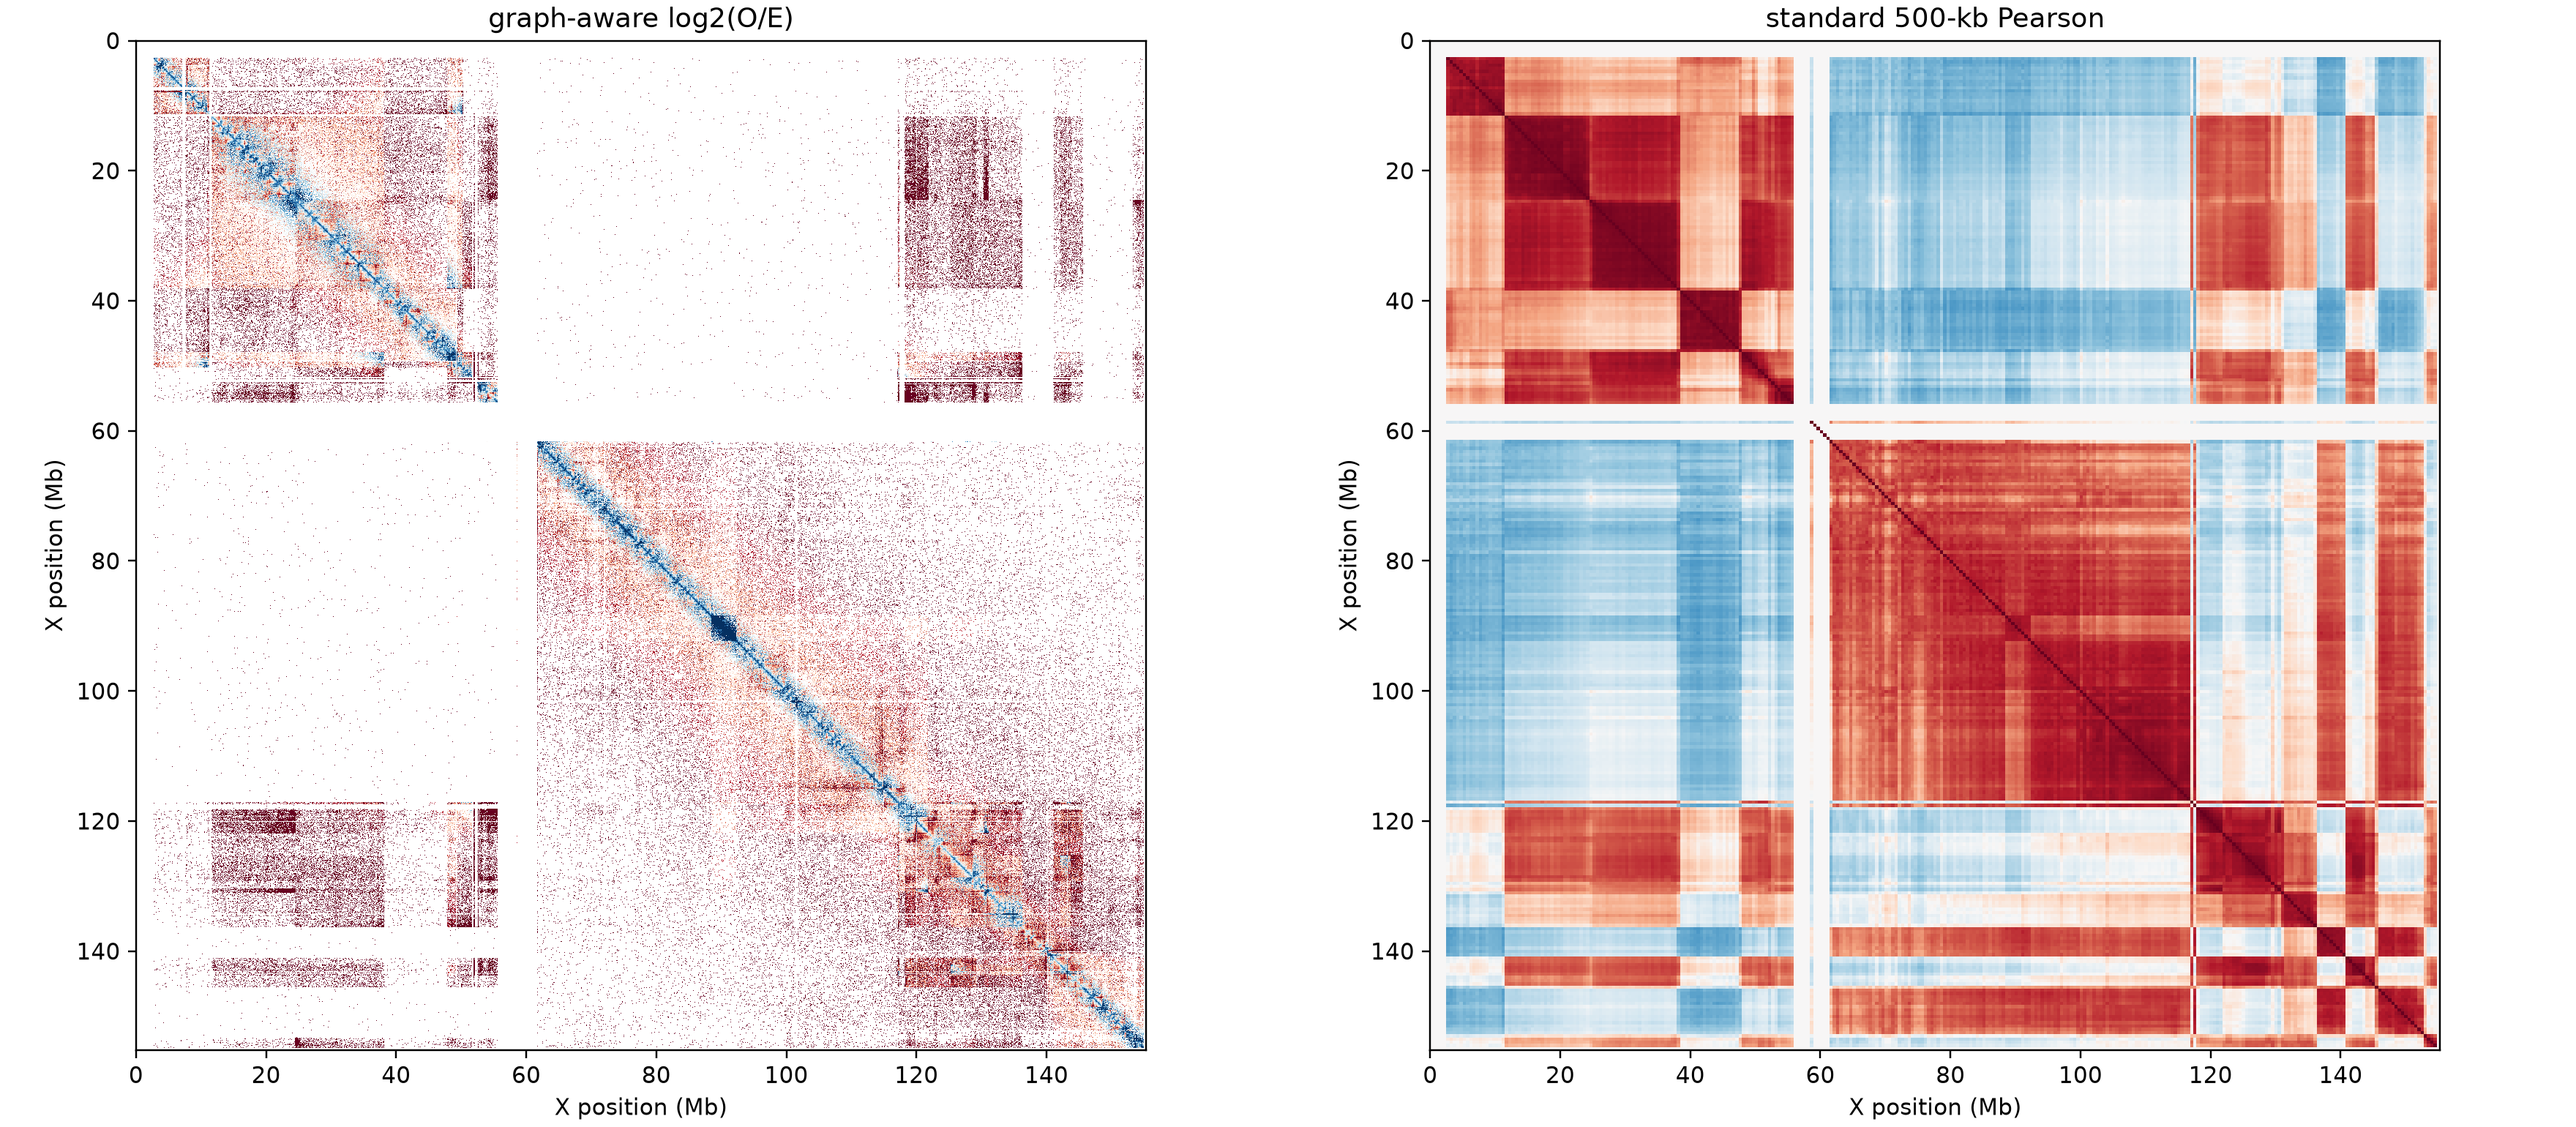
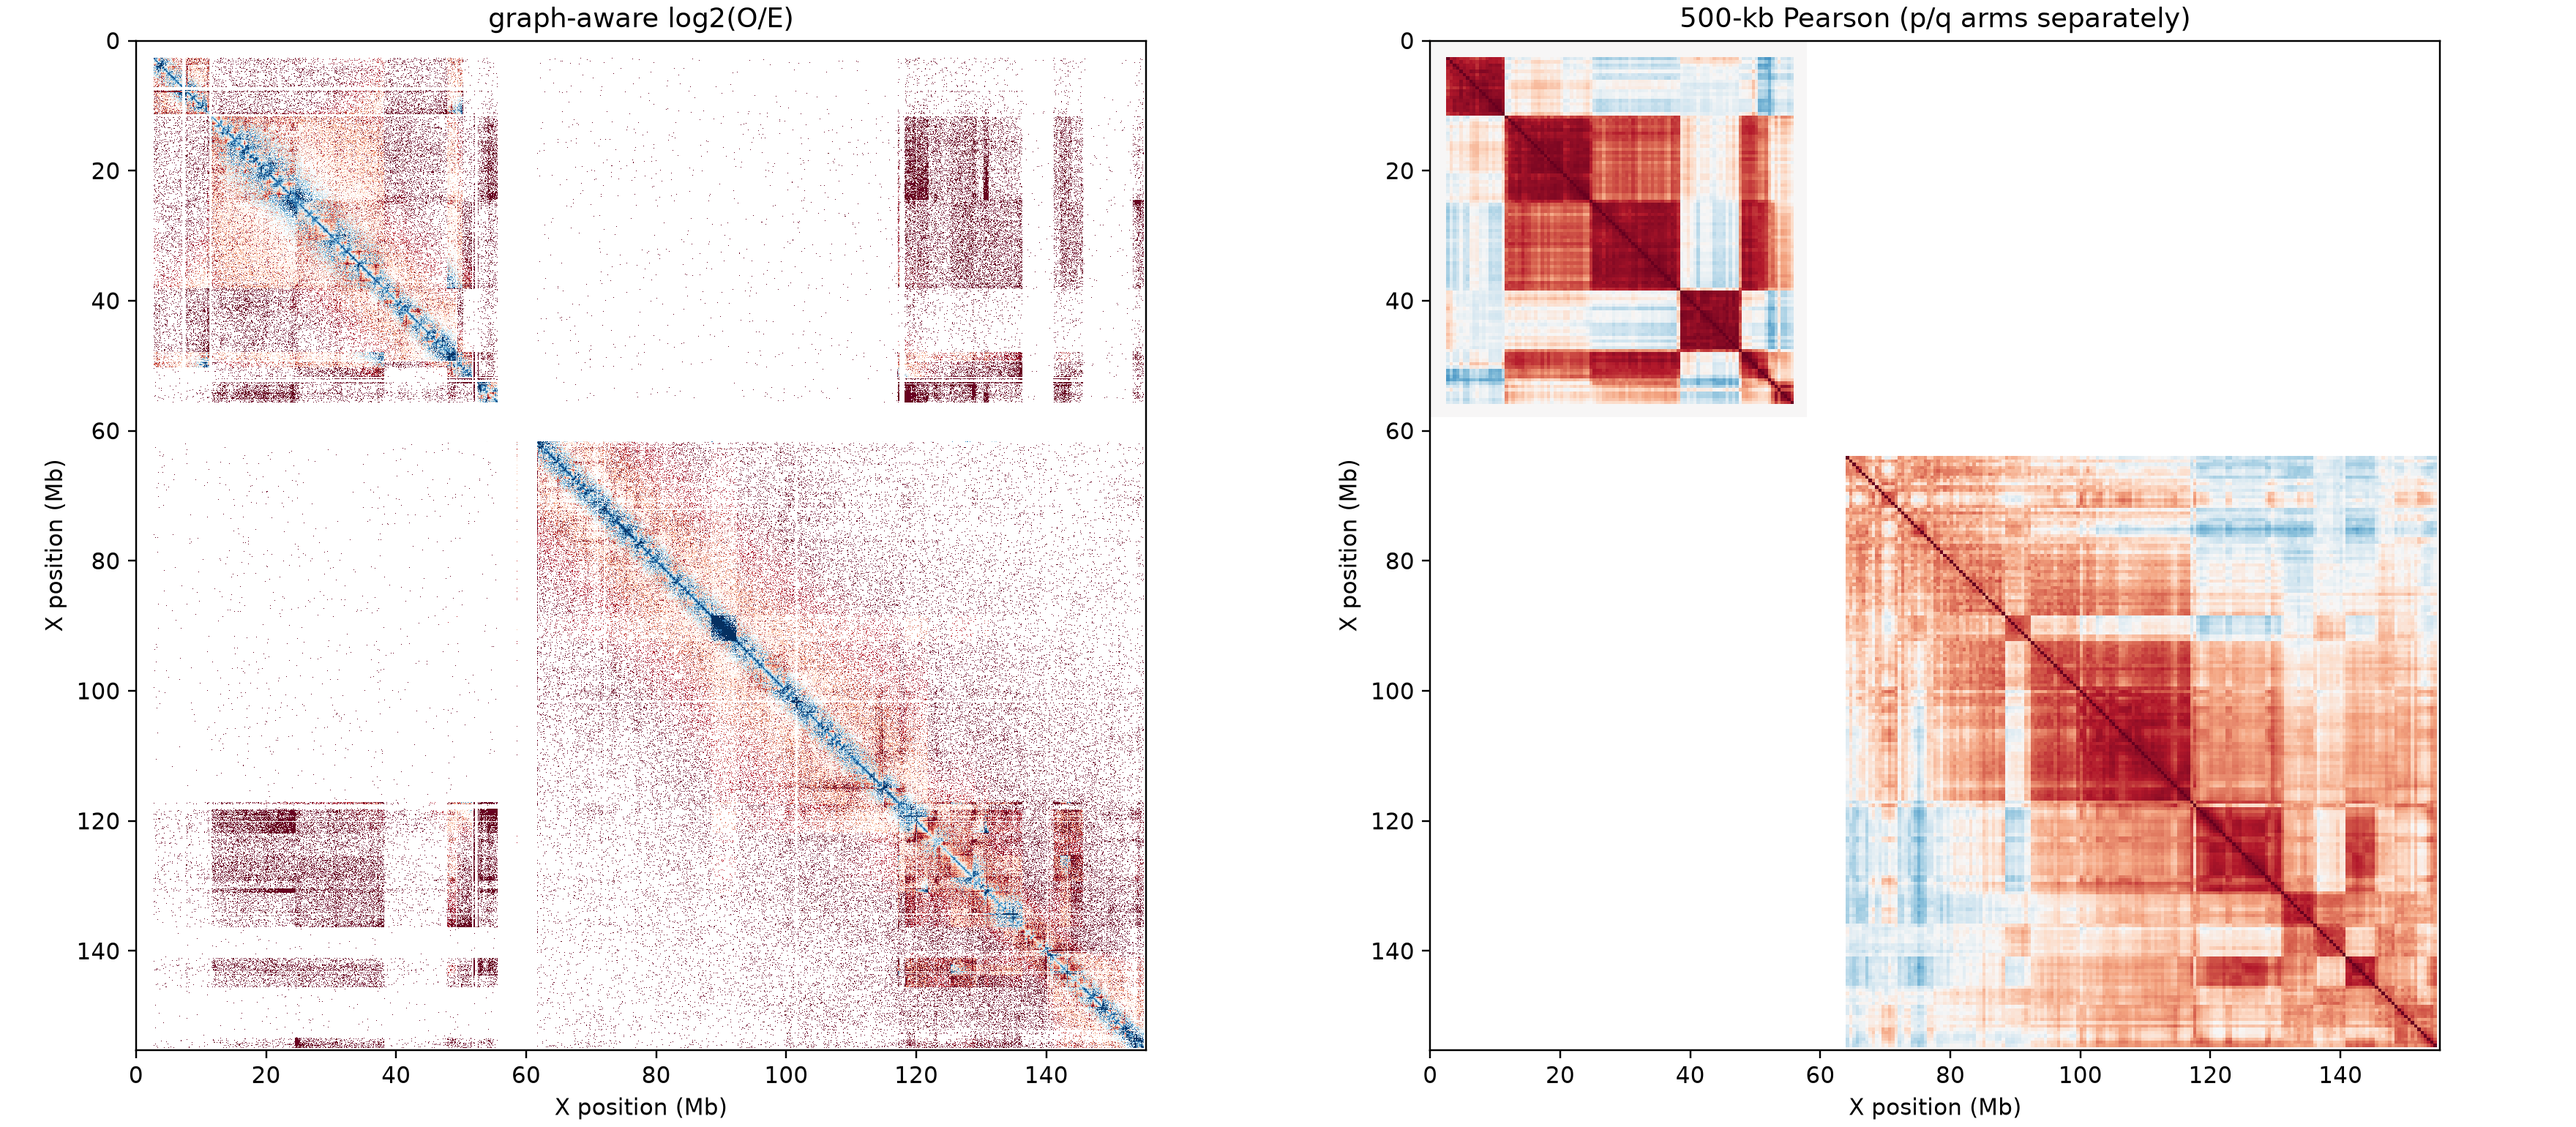
Compute chrX Pearson separately by chromosome arm

Changed region(s): [[0.5625, 0.0, 0.9688, 0.9351]]

diff --git a/scripts/run_local_copy_flow_additive_chr18.py b/scripts/run_local_copy_flow_additive_chr18.py
@@ -32,7 +32,8 @@ RES = 50_000
 
 
 def aggregate_500kb(observed, expected, valid, graph_distance,
-                    min_compartment_distance_bp=2_000_000):
+                    chromosome=None, centromere_start_bp=58_100_000,
+                    centromere_end_bp=63_800_000):
     factor = 10
     n = int(np.ceil(len(valid) / factor))
     size = n * factor
@@ -43,8 +44,24 @@ def aggregate_500kb(observed, expected, valid, graph_distance,
     graph_pad[:len(valid), :len(valid)] = np.where(
         valid_grid, graph_distance, np.inf)
     graph_min = graph_pad.reshape(n, factor, n, factor).min(axis=(1, 3))
-    return coarse, compute_interaction_profile_correlation(
-        coarse, coarse_valid, log_transform=True), graph_min
+    if chromosome in ("X", "chrX"):
+        centers = (np.arange(n) + 0.5) * factor * RES
+        arms = np.full(n, "centromere", dtype=object)
+        arms[centers < centromere_start_bp] = "p"
+        arms[centers >= centromere_end_bp] = "q"
+        pearson = np.full((n, n), np.nan)
+        for arm in ("p", "q"):
+            indices = np.flatnonzero(arms == arm)
+            arm_valid = coarse_valid[indices]
+            arm_oe = coarse[np.ix_(indices, indices)]
+            arm_pearson = compute_interaction_profile_correlation(
+                arm_oe, arm_valid, log_transform=True)
+            pearson[np.ix_(indices, indices)] = arm_pearson
+    else:
+        arms = np.full(n, "whole", dtype=object)
+        pearson = compute_interaction_profile_correlation(
+            coarse, coarse_valid, log_transform=True)
+    return coarse, pearson, graph_min, arms
 
 
 def main():
@@ -82,6 +99,8 @@ def main():
     parser.add_argument("--visibility-tolerance", type=float, default=.01)
     parser.add_argument("--visibility-max-iterations", type=int, default=100)
     parser.add_argument("--visibility-loop-quantile", type=float, default=.995)
+    parser.add_argument("--centromere-start", type=int, default=58_100_000)
+    parser.add_argument("--centromere-end", type=int, default=63_800_000)
     args = parser.parse_args()
     input_dir = args.input_dir.resolve()
     output_dir = (args.output_dir or input_dir / "copy_flow_additive_oe").resolve()
@@ -183,8 +202,11 @@ def main():
     final_external_expected = final_pair_factor * result.external_expected
     usable = np.outer(valid, valid) & (final_expected > 0)
     oe = np.divide(raw, final_expected, out=np.zeros_like(raw), where=usable)
-    coarse, pearson, graph_distance_500kb = aggregate_500kb(
-        raw, final_expected, valid, result.min_graph_distance_bins)
+    coarse, pearson, graph_distance_500kb, pearson_arms = aggregate_500kb(
+        raw, final_expected, valid, result.min_graph_distance_bins,
+        chromosome=args.chrom,
+        centromere_start_bp=args.centromere_start,
+        centromere_end_bp=args.centromere_end)
     output_stem = args.chrom.replace("chr", "chr", 1)
     np.savez_compressed(output_dir / f"{output_stem}.copy_flow_additive.npz", oe=oe,
                         expected=final_expected,
@@ -199,6 +221,9 @@ def main():
                         total_copy_pairs=result.total_copy_pairs,
                         collision_floor=result.collision_floor,
                         oe_500kb=coarse, pearson_500kb=pearson,
+                        pearson_arms=pearson_arms,
+                        centromere_start_bp=args.centromere_start,
+                        centromere_end_bp=args.centromere_end,
                         baseline_decay=baseline_decay,
                         same_molecule_decay=same_decay,
                         min_graph_distance_bins=result.min_graph_distance_bins,
@@ -227,7 +252,9 @@ def main():
     axes[0, 0].set_title("copy-flow additive log2(O/E)")
     axes[0, 1].imshow(pearson, cmap="RdBu_r", vmin=-1, vmax=1, extent=extent,
                       interpolation="none")
-    axes[0, 1].set_title("500-kb Pearson")
+    pearson_title = ("500-kb Pearson (p/q arms separately)"
+                     if args.chrom in ("X", "chrX") else "500-kb Pearson")
+    axes[0, 1].set_title(pearson_title)
     cis_fraction=np.divide(result.cis_copy_pairs, result.total_copy_pairs,
                            out=np.zeros_like(result.cis_copy_pairs),
                            where=result.total_copy_pairs > 0)
@@ -250,7 +277,7 @@ def main():
     main_axes[0].set_title("graph-aware log2(O/E)")
     main_axes[1].imshow(pearson, cmap="RdBu_r", vmin=-1, vmax=1, extent=extent,
                         interpolation="none")
-    main_axes[1].set_title("standard 500-kb Pearson")
+    main_axes[1].set_title(pearson_title)
     for ax in main_axes:
         ax.set_xlabel(f"{args.chrom} position (Mb)")
         ax.set_ylabel(f"{args.chrom} position (Mb)")

diff --git a/examples/F1_chrX/convex_poisson_flow/README.md b/examples/F1_chrX/convex_poisson_flow/README.md
@@ -39,3 +39,9 @@ ext-dominated pixels sum(O)/sum(E)  0.6858
 
 These values are reported without post-hoc correction; this deliberately
 shows that the simplified physical expected currently overestimates contact.
+
+The primary 500-kb Pearson analysis is chromosome-arm specific. chrX p arm
+(`<58.1 Mb`) and q arm (`>=63.8 Mb`) interaction profiles are correlated
+separately. The 58.1--63.8 Mb centromere interval and every p-by-q correlation
+are stored and plotted as missing values rather than contributing to either
+arm.
